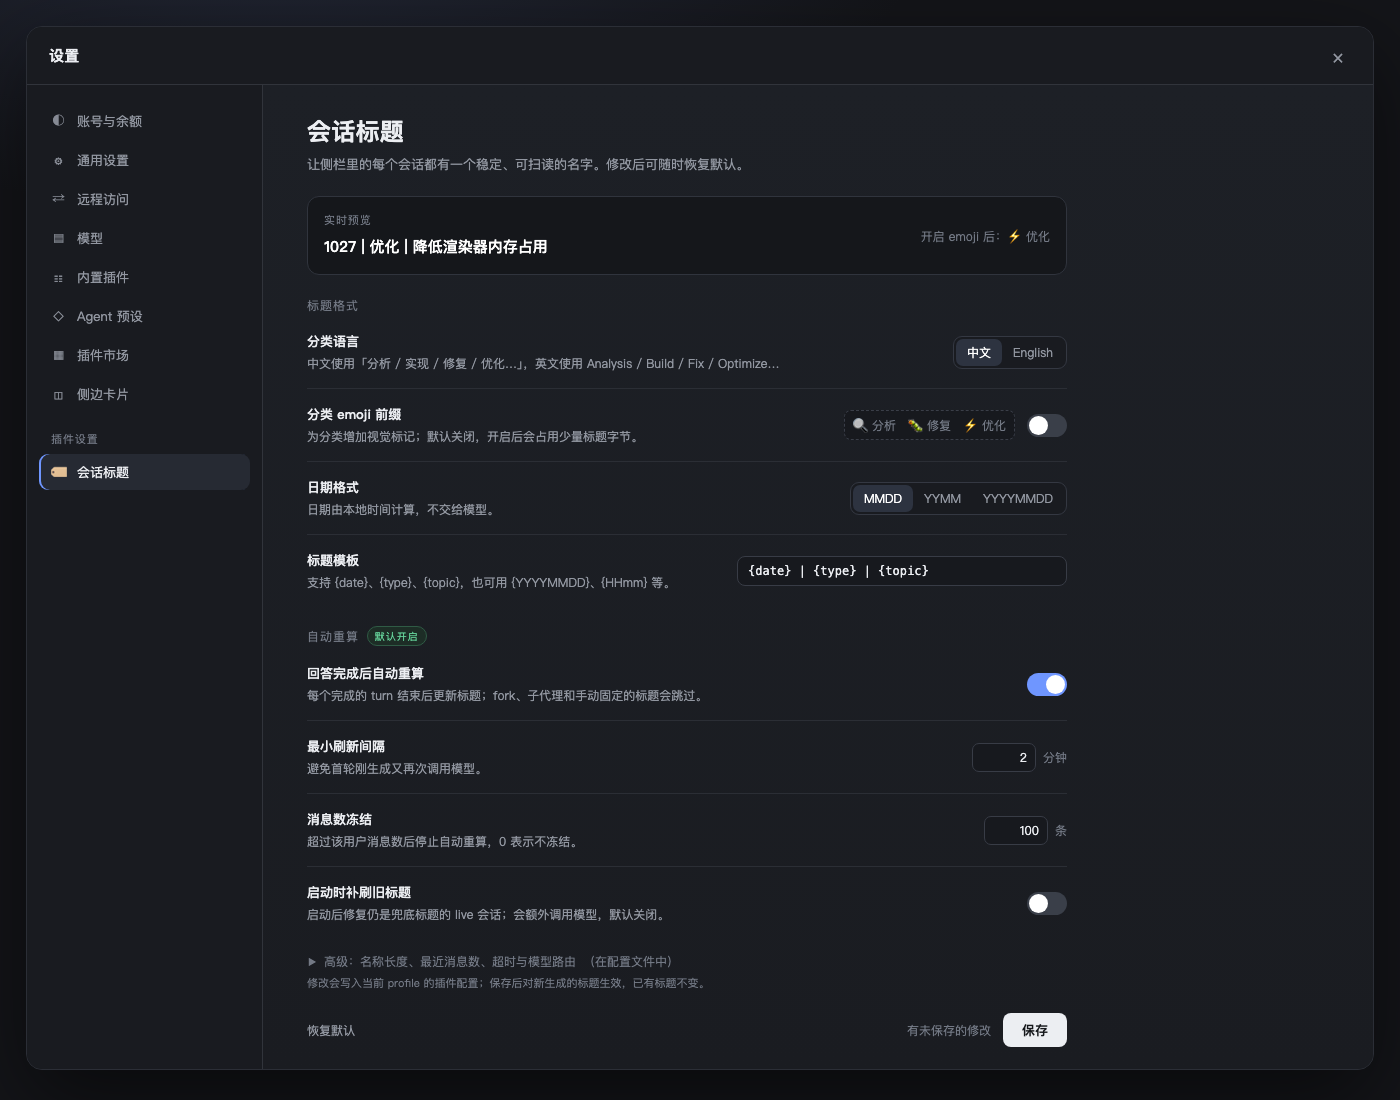
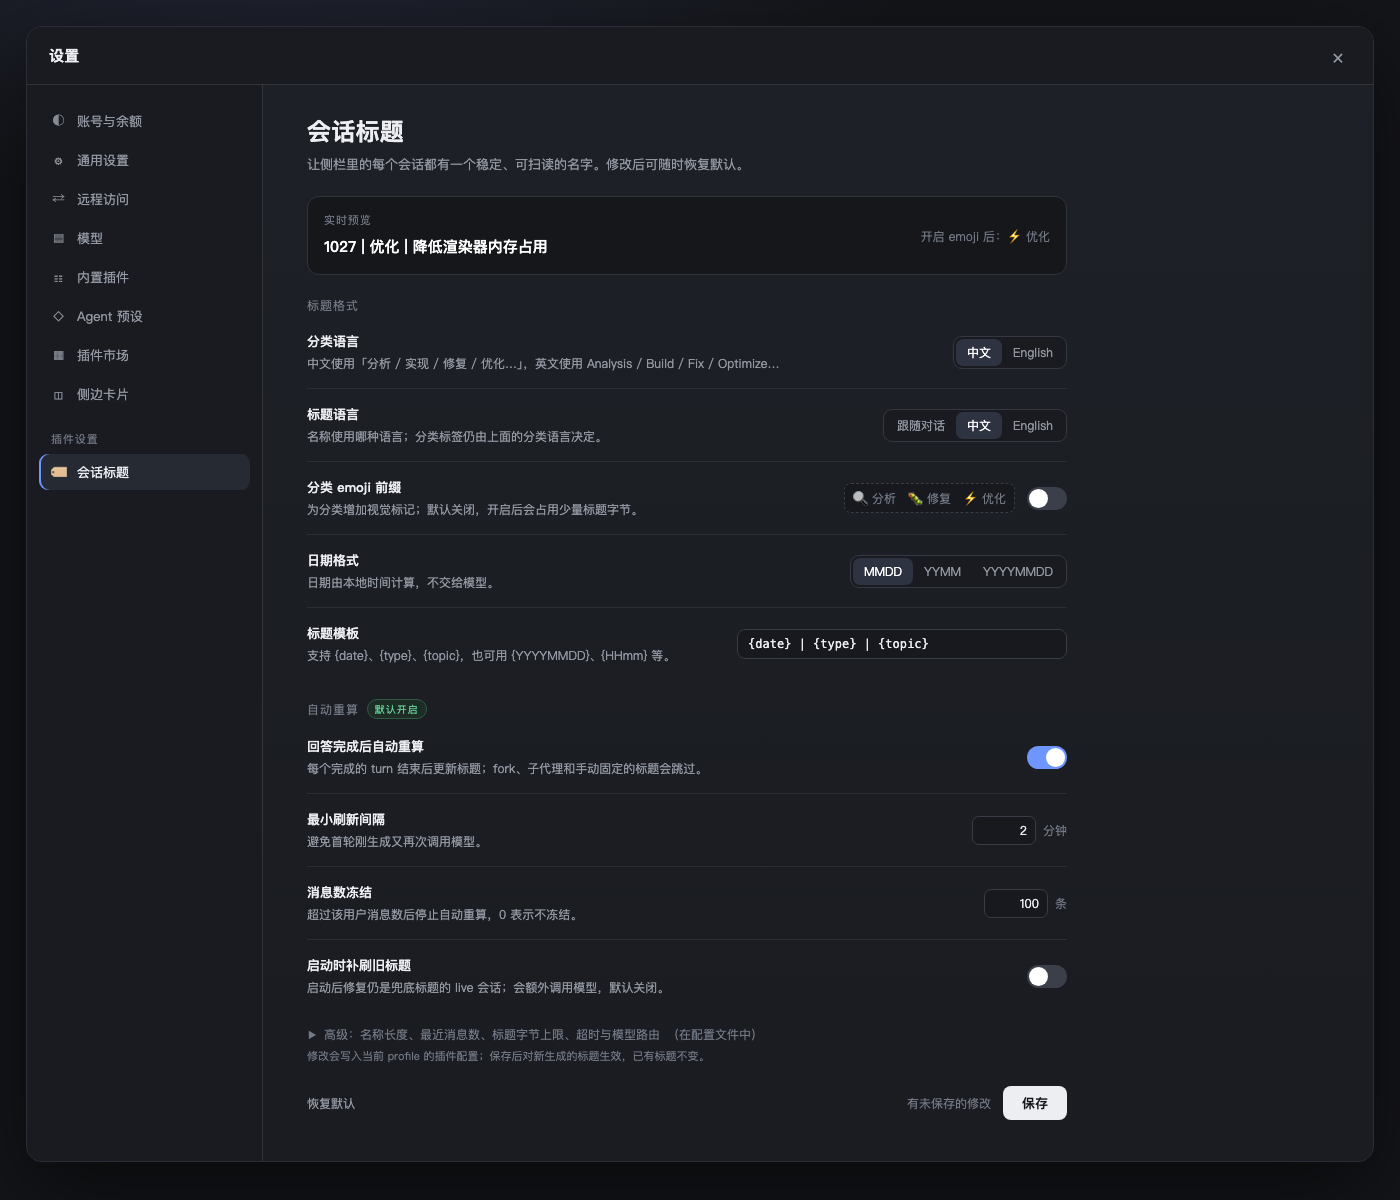
Release 0.8.0: title language and byte limit settings

diff --git a/client.js b/client.js
@@ -38,6 +38,14 @@ window.__ModuleLoader__.load({
         'settings.format': '标题格式',
         'settings.categoryLanguage': '分类语言',
         'settings.categoryLanguageHint': '中文使用「分析 / 实现 / 修复 / 优化…」，英文使用 Analysis / Build / Fix / Optimize…',
+        'settings.titleLanguage': '标题语言',
+        'settings.titleLanguageHint': '名称使用哪种语言；分类标签仍由上面的分类语言决定。',
+        'settings.langAuto': '跟随对话',
+        'settings.langZh': '中文',
+        'settings.langEn': 'English',
+        'settings.maxBytes': '标题最大字节数',
+        'settings.maxBytesHint': '1–80，最终还受标题服务上限约束。',
+        'settings.bytes': '字节',
         'settings.categoryEmoji': '分类 emoji 前缀',
         'settings.categoryEmojiHint': '为分类增加视觉标记；默认关闭，开启后会占用少量标题字节。',
         'settings.dateFormat': '日期格式',
@@ -89,6 +97,14 @@ window.__ModuleLoader__.load({
         'settings.format': 'Title format',
         'settings.categoryLanguage': 'Category language',
         'settings.categoryLanguageHint': 'Chinese uses 分析 / 实现 / 修复 / 优化…; English uses Analysis / Build / Fix / Optimize…',
+        'settings.titleLanguage': 'Title language',
+        'settings.titleLanguageHint': 'Language for the name; category labels still follow the category language above.',
+        'settings.langAuto': 'Follow chat',
+        'settings.langZh': 'Chinese',
+        'settings.langEn': 'English',
+        'settings.maxBytes': 'Maximum title bytes',
+        'settings.maxBytesHint': '1–80, still capped by the title service limit.',
+        'settings.bytes': 'bytes',
         'settings.categoryEmoji': 'Category emoji prefix',
         'settings.categoryEmojiHint': 'Adds a visual marker and a few title bytes. Off by default.',
         'settings.dateFormat': 'Date format',
@@ -388,10 +404,11 @@ window.__ModuleLoader__.load({
       const h = React.createElement
       const DEFAULT_TEMPLATE = '{date} | {type} | {topic}'
       const readText = (key) => t(`settings.${key}`)
-      const sample = (preset, emoji, dateFormat, template) => {
+      const sample = (preset, emoji, dateFormat, template, titleLanguage) => {
         const base = preset === 'en' ? 'Optimize' : '优化'
         const type = emoji ? `⚡ ${base}` : base
-        const topic = preset === 'en' ? 'Reduce renderer memory usage' : '降低渲染器内存占用'
+        const topicLanguage = titleLanguage === 'auto' ? (preset === 'en' ? 'en' : 'zh') : titleLanguage
+        const topic = topicLanguage === 'en' ? 'Reduce renderer memory usage' : '降低渲染器内存占用'
         const date = dateFormat === 'YYMM' ? '2610' : dateFormat === 'YYYYMMDD' ? '20261027' : '1027'
         const values = { date, type, topic, MMDD: '1027', YYMM: '2610', YYYYMMDD: '20261027', HHmm: '1230', YYYY: '2026', YY: '26', MM: '10', DD: '27', HH: '12', mm: '30', ss: '00' }
         return (template || DEFAULT_TEMPLATE).replace(/\{([A-Za-z]+)\}/g, (match, key) => values[key] ?? match)
@@ -406,6 +423,7 @@ window.__ModuleLoader__.load({
         const stored = snapshot.value ?? {}
         const storedPreset = stored.categoryPreset === 'en' ? 'en' : 'zh'
         const storedEmoji = stored.categoryEmoji === true
+        const storedTitleLanguage = ['zh', 'en'].includes(stored.titleLanguage) ? stored.titleLanguage : 'auto'
         const storedDateFormat = ['MMDD', 'YYMM', 'YYYYMMDD'].includes(stored.dateFormat) ? stored.dateFormat : 'MMDD'
         const storedTemplate = typeof stored.template === 'string' && stored.template.trim() !== '' ? stored.template.trim() : DEFAULT_TEMPLATE
         const storedAuto = stored.refreshOnTurnEnd !== false
@@ -414,9 +432,11 @@ window.__ModuleLoader__.load({
         const storedBackfill = stored.backfillOnStart === true
         const storedNameChars = String(Number.isFinite(stored.maxNameChars) ? stored.maxNameChars : 20)
         const storedRecent = String(Number.isFinite(stored.recentMessages) ? stored.recentMessages : 8)
+        const storedMaxTitleBytes = String(Number.isFinite(stored.maxTitleBytes) ? stored.maxTitleBytes : 80)
 
         const [categoryPreset, setCategoryPreset] = React.useState(storedPreset)
         const [categoryEmoji, setCategoryEmoji] = React.useState(storedEmoji)
+        const [titleLanguage, setTitleLanguage] = React.useState(storedTitleLanguage)
         const [dateFormat, setDateFormat] = React.useState(storedDateFormat)
         const [template, setTemplate] = React.useState(storedTemplate)
         const [autoRefresh, setAutoRefresh] = React.useState(storedAuto)
@@ -425,12 +445,14 @@ window.__ModuleLoader__.load({
         const [backfill, setBackfill] = React.useState(storedBackfill)
         const [nameChars, setNameChars] = React.useState(storedNameChars)
         const [recentMessages, setRecentMessages] = React.useState(storedRecent)
+        const [maxTitleBytes, setMaxTitleBytes] = React.useState(storedMaxTitleBytes)
         const [advancedOpen, setAdvancedOpen] = React.useState(false)
         const [saveState, setSaveState] = React.useState('idle')
 
         React.useEffect(() => {
           setCategoryPreset(storedPreset)
           setCategoryEmoji(storedEmoji)
+          setTitleLanguage(storedTitleLanguage)
           setDateFormat(storedDateFormat)
           setTemplate(storedTemplate)
           setAutoRefresh(storedAuto)
@@ -439,6 +461,7 @@ window.__ModuleLoader__.load({
           setBackfill(storedBackfill)
           setNameChars(storedNameChars)
           setRecentMessages(storedRecent)
+          setMaxTitleBytes(storedMaxTitleBytes)
         }, [snapshot.revision])
 
         const busy = saveState === 'saving'
@@ -446,6 +469,7 @@ window.__ModuleLoader__.load({
         const dirty =
           categoryPreset !== storedPreset ||
           categoryEmoji !== storedEmoji ||
+          titleLanguage !== storedTitleLanguage ||
           dateFormat !== storedDateFormat ||
           template !== storedTemplate ||
           autoRefresh !== storedAuto ||
@@ -453,7 +477,8 @@ window.__ModuleLoader__.load({
           freeze !== storedFreeze ||
           backfill !== storedBackfill ||
           nameChars !== storedNameChars ||
-          recentMessages !== storedRecent
+          recentMessages !== storedRecent ||
+          maxTitleBytes !== storedMaxTitleBytes
 
         const row = (key, title, desc, control, column = false) =>
           h(
@@ -506,12 +531,14 @@ window.__ModuleLoader__.load({
           const parsedFreeze = Math.max(0, Math.min(100000, Number.parseInt(freeze, 10) || 0))
           const parsedName = Math.max(4, Math.min(40, Number.parseInt(nameChars, 10) || 20))
           const parsedRecent = Math.max(2, Math.min(20, Number.parseInt(recentMessages, 10) || 8))
+          const parsedMaxTitleBytes = Math.max(1, Math.min(80, Number.parseInt(maxTitleBytes, 10) || 80))
           const nextTemplate = template.trim() === '' ? DEFAULT_TEMPLATE : template.trim()
           try {
             const ok = await form.mutate(
               [
                 { op: 'set', path: ['categoryPreset'], value: categoryPreset },
                 { op: 'set', path: ['categoryEmoji'], value: categoryEmoji },
+                { op: 'set', path: ['titleLanguage'], value: titleLanguage },
                 { op: 'set', path: ['dateFormat'], value: dateFormat },
                 { op: 'set', path: ['template'], value: nextTemplate },
                 { op: 'set', path: ['refreshOnTurnEnd'], value: autoRefresh },
@@ -520,6 +547,7 @@ window.__ModuleLoader__.load({
                 { op: 'set', path: ['backfillOnStart'], value: backfill },
                 { op: 'set', path: ['maxNameChars'], value: parsedName },
                 { op: 'set', path: ['recentMessages'], value: parsedRecent },
+                { op: 'set', path: ['maxTitleBytes'], value: parsedMaxTitleBytes },
               ],
               snapshot.revision,
             )
@@ -532,6 +560,7 @@ window.__ModuleLoader__.load({
         const restore = () => {
           setCategoryPreset('zh')
           setCategoryEmoji(false)
+          setTitleLanguage('auto')
           setDateFormat('MMDD')
           setTemplate(DEFAULT_TEMPLATE)
           setAutoRefresh(true)
@@ -540,13 +569,14 @@ window.__ModuleLoader__.load({
           setBackfill(false)
           setNameChars('20')
           setRecentMessages('8')
+          setMaxTitleBytes('80')
           setSaveState('idle')
         }
 
         if (snapshot.status === 'loading') return h('div', { style: SETTINGS_STYLE.desc }, readText('loading'))
         if (snapshot.status === 'unavailable') return h('div', { style: SETTINGS_STYLE.desc }, readText('unavailable'))
 
-        const preview = sample(categoryPreset, categoryEmoji, dateFormat, template)
+        const preview = sample(categoryPreset, categoryEmoji, dateFormat, template, titleLanguage)
         return h(
           'div',
           { style: SETTINGS_STYLE.page },
@@ -568,6 +598,8 @@ window.__ModuleLoader__.load({
           h('div', { style: SETTINGS_STYLE.sectionTitle }, readText('format')),
           row('preset', readText('categoryLanguage'), readText('categoryLanguageHint'),
             segment([{ value: 'zh', label: '中文' }, { value: 'en', label: 'English' }], categoryPreset, setCategoryPreset)),
+          row('language', readText('titleLanguage'), readText('titleLanguageHint'),
+            segment([{ value: 'auto', label: readText('langAuto') }, { value: 'zh', label: readText('langZh') }, { value: 'en', label: readText('langEn') }], titleLanguage, setTitleLanguage)),
           row('emoji', readText('categoryEmoji'), readText('categoryEmojiHint'), toggle(categoryEmoji, setCategoryEmoji, readText('categoryEmoji'))),
           row('date', readText('dateFormat'), readText('dateFormatHint'),
             segment([{ value: 'MMDD', label: 'MMDD' }, { value: 'YYMM', label: 'YYMM' }, { value: 'YYYYMMDD', label: 'YYYYMMDD' }], dateFormat, setDateFormat)),
@@ -588,6 +620,7 @@ window.__ModuleLoader__.load({
             ? h('div', null,
               row('nameChars', readText('nameLimit'), readText('nameLimitHint'), number(nameChars, setNameChars, 4, 40, readText('chars'))),
               row('recent', readText('recentMessages'), readText('recentMessagesHint'), number(recentMessages, setRecentMessages, 2, 20, readText('messages'))),
+              row('bytes', readText('maxBytes'), readText('maxBytesHint'), number(maxTitleBytes, setMaxTitleBytes, 1, 80, readText('bytes'))),
               h('div', { style: { ...SETTINGS_STYLE.desc, marginTop: '8px' } }, readText('advancedHint')),
             )
             : null,

diff --git a/docs/0.7.0-settings-mock.html b/docs/0.7.0-settings-mock.html
@@ -15,7 +15,7 @@
     font-family:"PingFang SC","SF Pro Display","Segoe UI",system-ui,sans-serif}
   body{display:flex;align-items:stretch;justify-content:center;padding:26px;background:
     radial-gradient(1200px 600px at 20% -10%,#232838 0%,transparent 55%),var(--bg)}
-  .window{width:1348px;height:1044px;display:flex;flex-direction:column;border:1px solid #2b2e36;
+  .window{width:1348px;height:1136px;display:flex;flex-direction:column;border:1px solid #2b2e36;
     border-radius:16px;overflow:hidden;background:var(--panel);box-shadow:0 30px 90px #0008}
   .topbar{height:58px;display:flex;align-items:center;justify-content:space-between;
     padding:0 22px;border-bottom:1px solid var(--stroke);background:#191b20}
@@ -110,6 +110,10 @@
             <div class="seg"><button class="on">中文</button><button>English</button></div>
           </div>
           <div class="row">
+            <div class="txt"><div class="t">标题语言</div><div class="d">名称使用哪种语言；分类标签仍由上面的分类语言决定。</div></div>
+            <div class="seg"><button>跟随对话</button><button class="on">中文</button><button>English</button></div>
+          </div>
+          <div class="row">
             <div class="txt"><div class="t">分类 emoji 前缀</div><div class="d">为分类增加视觉标记；默认关闭，开启后会占用少量标题字节。</div></div>
             <div class="emoji-line"><span class="ghost-preview">🔍 分析　🐛 修复　⚡ 优化</span><div class="switch"></div></div>
           </div>
@@ -143,7 +147,7 @@
           </div>
         </div>
 
-        <div class="advanced"><span class="chev">▼</span>高级：名称长度、最近消息数、超时与模型路由 <span class="dim">（在配置文件中）</span></div>
+        <div class="advanced"><span class="chev">▼</span>高级：名称长度、最近消息数、标题字节上限、超时与模型路由 <span class="dim">（在配置文件中）</span></div>
         <div class="hint">修改会写入当前 profile 的插件配置；保存后对新生成的标题生效，已有标题不变。</div>
 
         <div class="footer">

diff --git a/lib/format.js b/lib/format.js
@@ -177,6 +177,7 @@ export function resolveSettings(raw, serviceMaxBytes) {
     ? [...new Set(config.categories.map((item) => String(item).trim()).filter(Boolean))]
     : []
   const categoryPreset = config.categoryPreset === 'en' ? 'en' : 'zh'
+  const titleLanguage = config.titleLanguage === 'zh' || config.titleLanguage === 'en' ? config.titleLanguage : 'auto'
   const categories =
     configured.length > 0
       ? configured.slice(0, 24)
@@ -205,6 +206,7 @@ export function resolveSettings(raw, serviceMaxBytes) {
 
   return Object.freeze({
     categoryPreset,
+    titleLanguage,
     // Legacy message-count cadence. The turn/end listener uses it only when
     // refreshOnTurnEnd is explicitly false.
     retitleEvery,
@@ -601,7 +603,11 @@ export function buildSystemPrompt(settings, hasPreviousTitle) {
     hints,
     '',
     '名称规则：',
-    '- 与对话主要语言一致；中文 6-18 个汉字，非中文不超过 10 个词；',
+    settings.titleLanguage === 'zh'
+      ? '- 名称必须使用中文（必要的英文技术名词可以保留）；6-18 个汉字；'
+      : settings.titleLanguage === 'en'
+        ? '- 名称必须使用英文（必要的专有名词可以保留）；不超过 10 个词；'
+        : '- 与对话主要语言一致；中文 6-18 个汉字，非中文不超过 10 个词；',
     '- 概括会话的主要主题或任务，不要只复述问候、客套或「继续」；',
     '- 不要包含日期、分类名、竖线 |、引号、换行、Markdown、文件路径或命令；',
     '- 信息不足时，按用户输入的主题起一个简短名称，不要解释。',

diff --git a/lib/index.js b/lib/index.js
@@ -38,6 +38,9 @@ const PrefsSchema = Schema.object({
   categoryEmoji: Schema.boolean()
     .default(false)
     .description('给分类加 emoji 前缀，例如 ⚡ 优化'),
+  titleLanguage: Schema.union([Schema.const('auto'), Schema.const('zh'), Schema.const('en')])
+    .default('auto')
+    .description('标题名称语言：auto 跟随对话 / zh 中文 / en English'),
   dateFormat: Schema.union([Schema.const('MMDD'), Schema.const('YYMM'), Schema.const('YYYYMMDD')])
     .default('MMDD')
     .description('{date} 使用日期格式'),
@@ -59,6 +62,9 @@ const PrefsSchema = Schema.object({
   maxNameChars: Schema.natural()
     .default(20)
     .description('名称最大字符数'),
+  maxTitleBytes: Schema.natural()
+    .default(80)
+    .description('标题最大字节数'),
   recentMessages: Schema.natural()
     .default(8)
     .description('标题请求包含的最近消息数'),
@@ -69,7 +75,6 @@ const LimitsSchema = Schema.object({
     .default([])
     .hidden(true)
     .description('自定义分类词表，覆盖 categoryPreset'),
-  maxTitleBytes: Schema.natural().default(80).hidden(true),
   maxInputBytes: Schema.natural().default(4096).hidden(true),
   maxOutputTokens: Schema.natural().default(4096).hidden(true),
   timeoutMs: Schema.natural().default(90000).hidden(true),

diff --git a/README.md b/README.md
@@ -14,12 +14,13 @@ title. Beyond automatic naming:
 - **Generate title** — the conversation-header ↻ button, the session row's
   **Generate title** menu item, or `/retitle`.
 - **Copy title** — an extra item in the session `···` menu copies the full title.
-- **Settings page** — preview and change format, emoji, and refresh cadence without editing YAML.
+- **Settings page** — preview and change format, emoji, title language, and refresh cadence without editing YAML.
 - **Optional category emoji** — `categoryEmoji: true` renders titles such as
   `1027 | ⚡ 优化 | ...`.
 - **Hover stats** — see duration, estimated CNY cost, and token count at a glance,
   without opening a dashboard.
 - **Category language** — `categoryPreset: zh | en`, or your own `categories`.
+- **Title language** — names can follow the conversation, or be forced to Chinese/English.
 - **Failure-safe** — a failed retitle keeps the current title.
 - **Zero build** — pure Host logic plus a small hand-written browser half.
 
@@ -67,7 +68,7 @@ and mirrors conventions used by other coding agents.
 Add this market index source in **Plugins → Discover → Index sources**:
 
 ```text
-https://cdn.jsdelivr.net/gh/xuedipiaofei/dsh-session-title-stamp@v0.7.1/market/index.json
+https://cdn.jsdelivr.net/gh/xuedipiaofei/dsh-session-title-stamp@v0.8.0/market/index.json
 ```
 
 Then install **Session title stamp** from the list. The plugin installs as a
@@ -179,12 +180,14 @@ route; the refresh button and automatic titles are unaffected.
 0.7.0 adds **Settings → Plugins → Session titles**:
 
 - a live preview of the exact title the current template will produce;
-- category language (Chinese/English), optional category emoji, date format,
-  and the title template;
+- category language (Chinese/English), title language, optional category emoji,
+  date format, and the title template;
 - the auto-refresh switch, minimum interval, message freeze, and opt-in startup
   backfill, with the cost trade-off stated in place;
-- advanced name-length and recent-message controls; timeouts, budgets, and
-  model routing stay in the profile configuration.
+- advanced name-length, recent-message, and title-byte controls; timeouts,
+  budgets, and model routing stay in the profile configuration.
+
+0.8.0 adds the title-language choice and the advanced byte limit.
 
 Saving writes the current profile's plugin config, so it applies to the next
 generated title without a restart. Existing titles are never rewritten.
@@ -227,6 +230,7 @@ Override the row in the profile's `cordis.patch.yml`:
 | `dateFormat` | `MMDD` | Used by `{date}`: `MMDD` (`1028`), `YYMM` (`2610`), or `YYYYMMDD` |
 | `timeZone` | host local | IANA zone used for date/time placeholders |
 | `categoryPreset` | `zh` | Built-in category language: `zh` or `en` |
+| `titleLanguage` | `auto` | Name language: `auto`, `zh`, or `en` |
 | `categories` | preset | Explicit category list; overrides `categoryPreset` |
 | `categoryEmoji` | `false` | Prefix the category with its emoji (⚡ 优化, 🐛 修复, ...) |
 | `maxNameChars` | `20` | Character cap before the byte cap applies |

diff --git a/README.zh.md b/README.zh.md
@@ -7,10 +7,11 @@
 - **自动重算**：回答完成后更新，2 分钟冷却，超过 100 条消息后冻结；fork、子代理和手动固定的标题跳过。
 - **生成标题**：会话头 ↻ 按钮、会话行 `···` 菜单「自动生成标题」、或 `/retitle`。
 - **复制标题**：会话行 `···` 菜单多一项复制完整标题。
-- **设置页**：可视化调整格式、emoji 和重算节奏，带实时预览，不用改 YAML。
+- **设置页**：可视化调整格式、emoji、标题语言和重算节奏，带实时预览，不用改 YAML。
 - **可选 emoji 分类**：`categoryEmoji: true` 后标题形如 `1027 | ⚡ 优化 | ...`。
 - **悬停统计**：不打开面板，一眼看到耗时、估算 CNY 成本、token 数。
 - **分类语言**：`categoryPreset: zh | en`，也可以用 `categories` 自定义。
+- **标题语言**：名称可跟随对话，也可强制中文/English。
 - **失败保护**：重算失败保留当前标题，不被兜底标题覆盖。
 - **零构建**：纯 Host 逻辑 + 小型手写浏览器半边。
 
@@ -50,7 +51,7 @@
 在 **插件 → 发现（Discover）→ 索引源** 添加：
 
 ```text
-https://cdn.jsdelivr.net/gh/xuedipiaofei/dsh-session-title-stamp@v0.7.1/market/index.json
+https://cdn.jsdelivr.net/gh/xuedipiaofei/dsh-session-title-stamp@v0.8.0/market/index.json
 ```
 
 然后在列表里安装 **Session title stamp / 会话标题印章**。插件以 profile bundle 的形式安装，之后可在插件页启停。
@@ -133,9 +134,11 @@ fork 子会话、子代理会话，以及用户手动改名固定的标题都会
 0.7.0 增加 **设置 → 插件设置 → 会话标题**：
 
 - 顶部实时预览当前模板会生成的标题；
-- 分类语言（中文/English）、可选分类 emoji、日期格式、标题模板；
+- 分类语言（中文/English）、标题语言、可选分类 emoji、日期格式、标题模板；
 - 自动重算开关、最小间隔、消息数冻结、启动补刷，并把额外模型成本写在说明里；
-- 高级项只放名称长度和最近消息数；超时、预算、模型路由仍在配置文件里。
+- 高级项放名称长度、最近消息数和标题字节上限；超时、预算、模型路由仍在配置文件里。
+
+0.8.0 增加标题语言选择与高级字节上限。
 
 保存会写入当前 profile 的插件配置，对下一次生成的标题生效，不需要重启；已有标题不会被改写。
 
@@ -174,6 +177,7 @@ fork 子会话、子代理会话，以及用户手动改名固定的标题都会
 | `dateFormat` | `MMDD` | `{date}` 使用：`MMDD`（`1028`）/ `YYMM`（`2610`）/ `YYYYMMDD` |
 | `timeZone` | 本机时区 | 日期/时间占位符使用的 IANA 时区 |
 | `categoryPreset` | `zh` | 内置分类语言：`zh` 或 `en` |
+| `titleLanguage` | `auto` | 名称语言：`auto`、`zh` 或 `en` |
 | `categories` | 预设 | 显式分类词表，优先级高于 `categoryPreset` |
 | `categoryEmoji` | `false` | 给分类加 emoji 前缀（⚡ 优化、🐛 修复……） |
 | `maxNameChars` | `20` | 名称字符上限（最终还受字节上限约束） |

diff --git a/PUBLISHING.md b/PUBLISHING.md
@@ -4,6 +4,7 @@ This repository is already shaped as a DSH bundle and a format-1 market entry.
 
 ## Current releases
 
+- **0.8.0 (2026-11-07)**: title language and settings byte limit.
 - **0.7.1 (2026-11-04)**: settings polish, hover-card field guide, docs/screenshots.
 - **0.7.0 (2026-11-04)**: settings page with live preview and live config writes.
 - **0.6.0 (2026-11-03)**: optional category emoji and Copy title menu item.
@@ -201,7 +202,7 @@ Commit and push the index change.
 Use jsDelivr over GitHub (HTTPS, no redirects, no Pages setup):
 
 ```text
-https://cdn.jsdelivr.net/gh/xuedipiaofei/dsh-session-title-stamp@v0.7.1/market/index.json
+https://cdn.jsdelivr.net/gh/xuedipiaofei/dsh-session-title-stamp@v0.8.0/market/index.json
 ```
 
 Prefer the tag URL: jsDelivr caches `@main` for a long time, and a cached copy

diff --git a/CHANGELOG.md b/CHANGELOG.md
@@ -1,5 +1,10 @@
 # Changelog
 
+## 0.8.0 — 2026-11-07
+
+- `titleLanguage: auto | zh | en` in the settings page and config.
+- Advanced title-byte limit control in settings.
+
 ## 0.7.1 — 2026-11-04
 
 - Settings polish: units, the default-on badge, and extra template preview placeholders.
